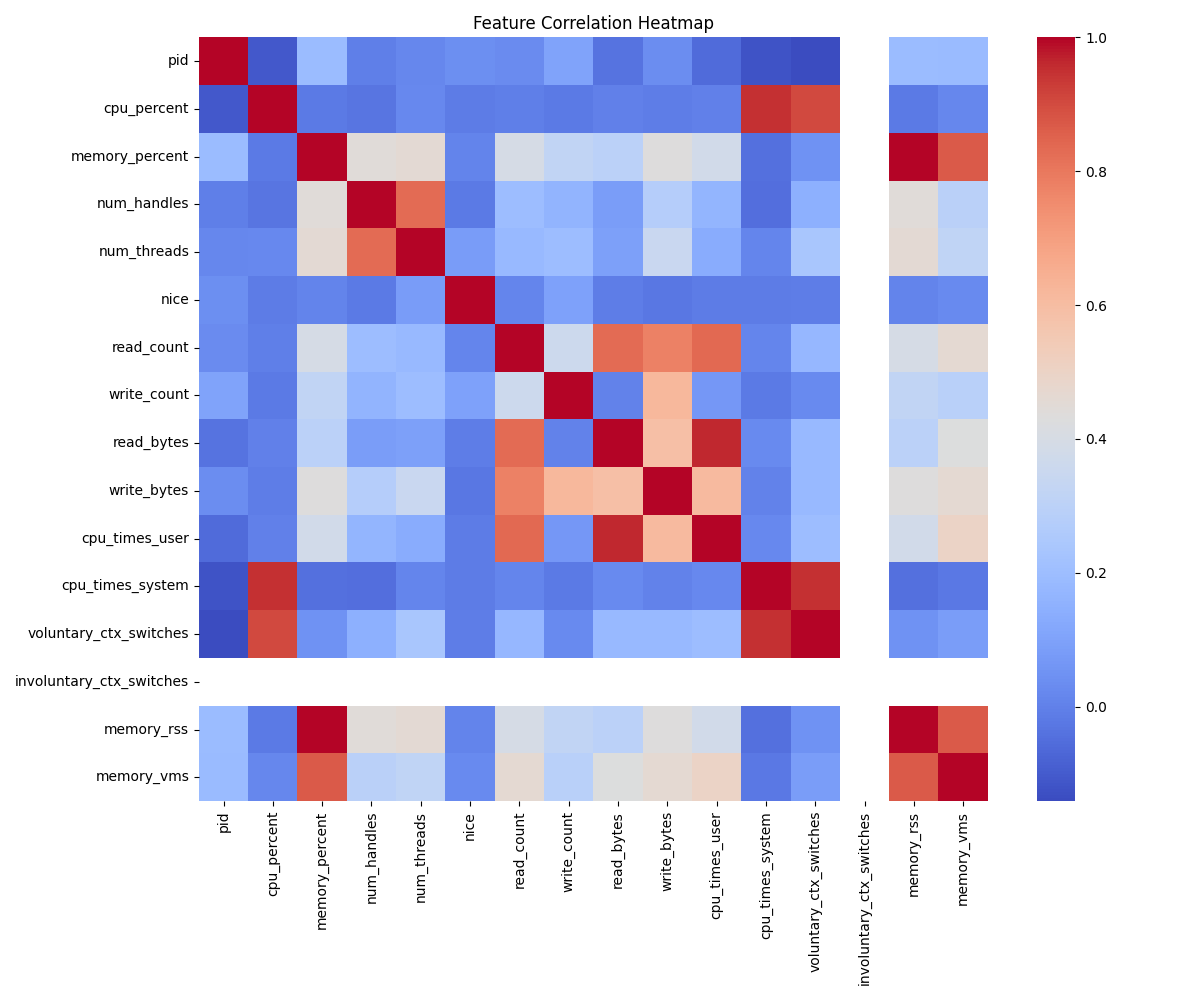
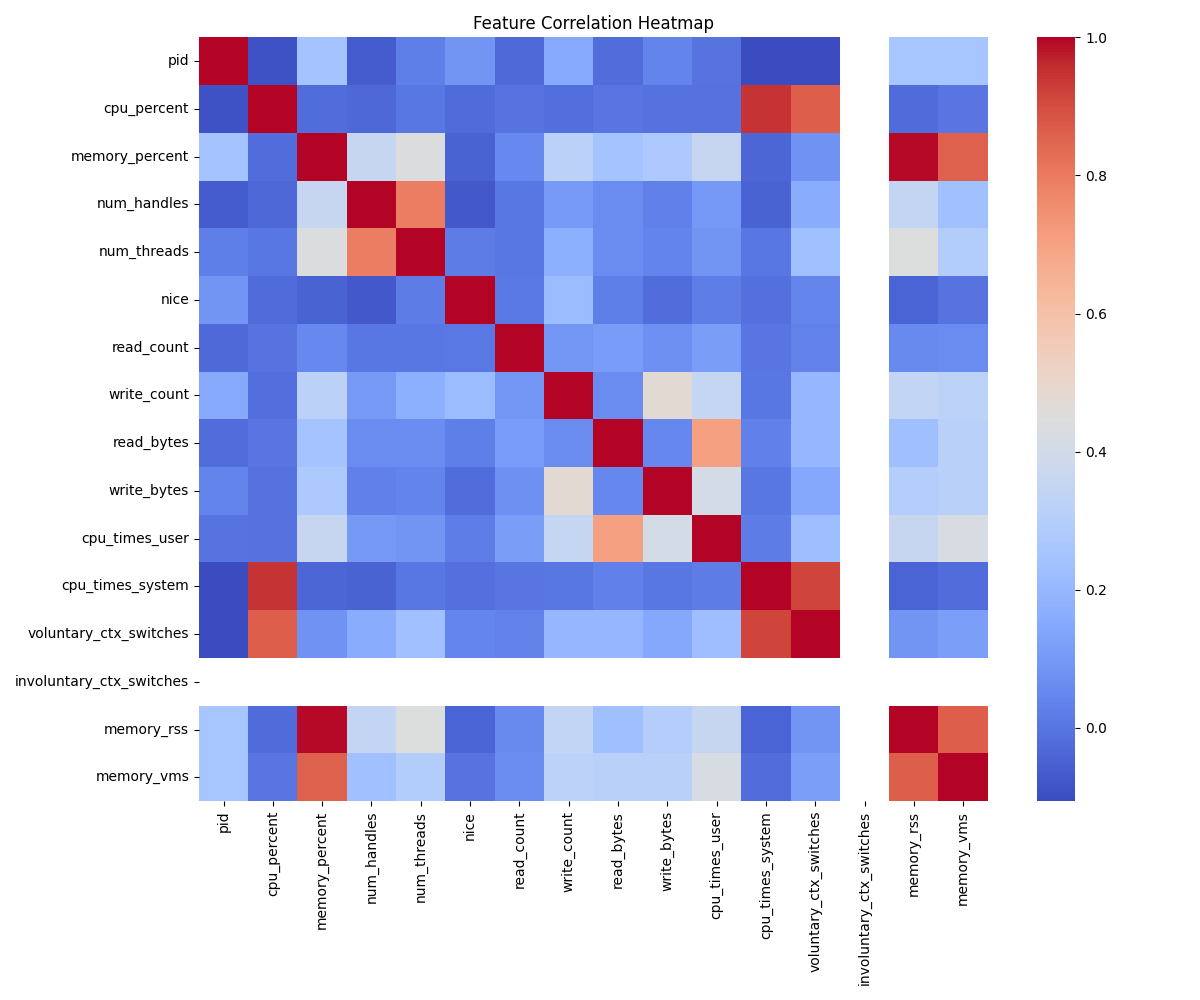
added grpahs

diff --git a/plot_data.py b/plot_data.py
@@ -4,7 +4,7 @@ import seaborn as sns
 import joblib
 import os
 
-CSV_PATH = "labeled_behavior_data.csv"
+CSV_PATH = "combined_dataset.csv"
 MODEL_PATH = "retrained_detector.pkl"
 
 # =========================================================
